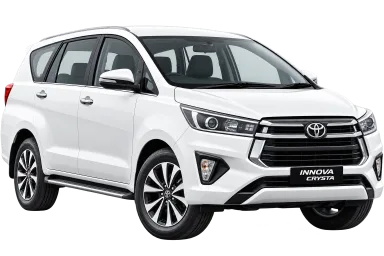
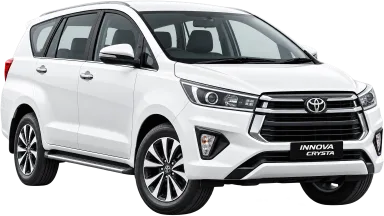
Demo fleet: 13 vehicles, compact grid layout
- Fleet section gets a "compact" layout (2 per row on phones, 4 on desktop),
  now the travel default; Adventure/Fresh/Heritage looks use it
- Vehicle photos sit in a fixed box so square and wide photos line up
- demo-travel lists 13 vehicles from hatchback to Volvo bus; photos trimmed of
  empty borders and converted to WebP (~340 KB total)

Claude-Session: https://claude.ai/code/session_01JKoJJ8m1J8cCvWakxQXwbB

diff --git a/src/sections/fleet.tsx b/src/sections/fleet.tsx
@@ -36,8 +36,8 @@ function Card({ v, ctx }: { v: Vehicle; ctx: SectionCtx }) {
   const name = ctx.t(v.name);
   return (
     <article className="flex h-full flex-col rounded-card border border-line bg-bg p-4 shadow-sm">
-      <div className="flex aspect-[3/2] items-center justify-center rounded-card bg-gradient-to-b from-surface to-bg">
-        <Img src={ctx.img(v.image)} alt={name} className="max-h-full w-[88%] object-contain drop-shadow-md" />
+      <div className="relative aspect-[3/2] rounded-card bg-gradient-to-b from-surface to-bg">
+        <Img src={ctx.img(v.image)} alt={name} className="absolute inset-0 size-full object-contain p-3 drop-shadow-md" />
       </div>
       <div className="mt-4 flex flex-wrap items-center gap-2 text-sm text-muted">
         {v.category && <span className="rounded-btn bg-surface px-2.5 py-0.5">{ctx.t(v.category)}</span>}
@@ -112,4 +112,52 @@ function Scroll({ id, data, ctx }: SectionProps<Data>) {
   );
 }
 
-export const fleet = defineSection({ type: "fleet", schema, layouts: { cards: Cards, scroll: Scroll } });
+/** Small cards, 2 per row on phones: good for a big fleet. */
+function Compact({ id, data, ctx }: SectionProps<Data>) {
+  return (
+    <Section id={id} tone={data.tone}>
+      <Container>
+        <SectionHeader eyebrow={ctx.t(data.eyebrow)} title={ctx.t(data.title)} subtitle={ctx.t(data.subtitle)} />
+        <div className="grid grid-cols-2 gap-3 md:grid-cols-3 md:gap-4 lg:grid-cols-4">
+          {data.items.map((v, i) => {
+            const name = ctx.t(v.name);
+            return (
+              <article key={i} className="flex flex-col rounded-card border border-line bg-bg p-3 shadow-sm">
+                <div className="relative aspect-[3/2] rounded-card bg-gradient-to-b from-surface to-bg">
+                  <Img src={ctx.img(v.image)} alt={name} className="absolute inset-0 size-full object-contain p-2 drop-shadow-md" />
+                </div>
+                <h3 className="mt-2 text-base leading-snug md:text-lg">{name}</h3>
+                <p className="mt-0.5 flex flex-wrap items-center gap-x-2 text-xs text-muted md:text-sm">
+                  {v.category && <span>{ctx.t(v.category)}</span>}
+                  {v.seats !== undefined && (
+                    <span className="inline-flex items-center gap-1">
+                      <Users className="size-3.5" /> {v.seats}
+                    </span>
+                  )}
+                </p>
+                {v.rate !== undefined && (
+                  <p className="mt-1 font-bold text-primary">
+                    {inr.format(v.rate)}
+                    <span className="text-xs font-normal text-muted"> / {ctx.t(v.rateUnit) || "km"}</span>
+                  </p>
+                )}
+                <div className="mt-auto pt-3">
+                  <a
+                    href={ctx.wa(`${ctx.ui.fleet.waBook} ${name}`)}
+                    target="_blank"
+                    rel="noopener noreferrer"
+                    className="flex min-h-10 items-center justify-center gap-1.5 rounded-btn bg-[#1FA855] text-sm font-semibold text-white"
+                  >
+                    <WhatsAppIcon className="size-4" /> {ctx.ui.fleet.book}
+                  </a>
+                </div>
+              </article>
+            );
+          })}
+        </div>
+      </Container>
+    </Section>
+  );
+}
+
+export const fleet = defineSection({ type: "fleet", schema, layouts: { compact: Compact, cards: Cards, scroll: Scroll } });

diff --git a/src/presets/travel.ts b/src/presets/travel.ts
@@ -13,7 +13,7 @@ export const travel: Preset = {
       name: { mr: "साहस", en: "Adventure" },
       style: "warm",
       layouts: {
-        navbar: "simple", hero: "image", packages: "cards", fleet: "cards", features: "grid", stats: "band", gallery: "masonry",
+        navbar: "simple", hero: "image", packages: "cards", fleet: "compact", features: "grid", stats: "band", gallery: "masonry",
         testimonials: "cards", faq: "accordion", cta: "card", enquiry: "split", contact: "map", footer: "columns",
       },
     },
@@ -31,7 +31,7 @@ export const travel: Preset = {
       name: { mr: "फ्रेश", en: "Fresh" },
       style: "modern",
       layouts: {
-        navbar: "simple", hero: "centered", packages: "cards", fleet: "cards", features: "grid", stats: "cards", gallery: "grid",
+        navbar: "simple", hero: "centered", packages: "cards", fleet: "compact", features: "grid", stats: "cards", gallery: "grid",
         testimonials: "scroll", faq: "accordion", cta: "card", enquiry: "split", contact: "map", footer: "columns",
       },
     },
@@ -49,7 +49,7 @@ export const travel: Preset = {
       name: { mr: "वारसा", en: "Heritage" },
       style: "elegant",
       layouts: {
-        navbar: "simple", hero: "image", packages: "cards", fleet: "cards", features: "grid", stats: "band", gallery: "masonry",
+        navbar: "simple", hero: "image", packages: "cards", fleet: "compact", features: "grid", stats: "band", gallery: "masonry",
         testimonials: "cards", faq: "accordion", cta: "card", enquiry: "split", contact: "map", footer: "columns",
       },
     },
@@ -173,7 +173,7 @@ export const travel: Preset = {
     },
 
     fleet: {
-      layout: "cards",
+      layout: "compact",
       navLabel: { mr: "वाहने", en: "Vehicles" },
       eyebrow: { mr: "प्रवासासाठी वाहने", en: "Vehicles for hire" },
       title: { mr: "आमची वाहने", en: "Our fleet" },

diff --git a/src/components/showcase-panel.tsx b/src/components/showcase-panel.tsx
@@ -88,6 +88,7 @@ const LAYOUT_NAMES: Record<string, Record<Lang, string>> = {
   map: { en: "With map", mr: "नकाशासह" },
   details: { en: "Details", mr: "फक्त माहिती" },
   columns: { en: "Columns", mr: "कॉलम" },
+  compact: { en: "Compact", mr: "छोटे कार्ड" },
 };
 
 /** White or near-black text, whichever reads better on `hex`. */

diff --git a/README.md b/README.md
@@ -53,7 +53,7 @@ The first layout is the default.
 | `hero` | `image`, `split`, `centered` | Default button is "Enquire on WhatsApp" |
 | `about` | `split`, `centered` | Separate paragraphs in `body` with a blank line |
 | `packages` | `cards`, `list` | Price in rupees, days/nights, highlights; each card has a WhatsApp button |
-| `fleet` | `cards`, `scroll` | Vehicles for hire: cut-out photo, seats, features, optional rate per km; "Book" on WhatsApp |
+| `fleet` | `compact`, `cards`, `scroll` | Vehicles for hire (`compact` = 2 per row on phones, for big fleets): cut-out photo, seats, features, optional rate per km; "Book" on WhatsApp |
 | `features` | `grid`, `split` | `icon` is one of the names in `src/components/icon.tsx` |
 | `stats` | `band`, `cards` | |
 | `gallery` | `masonry`, `grid` | |
